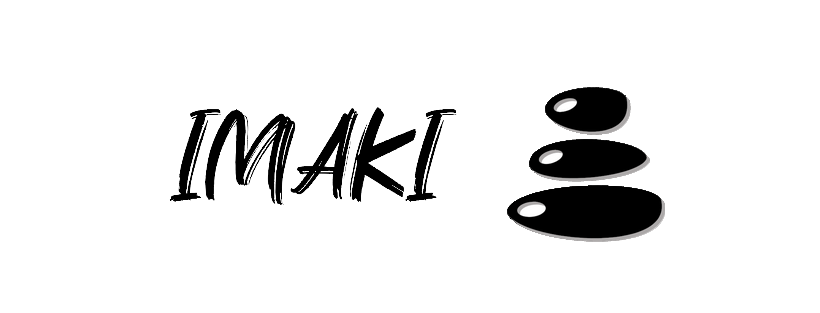
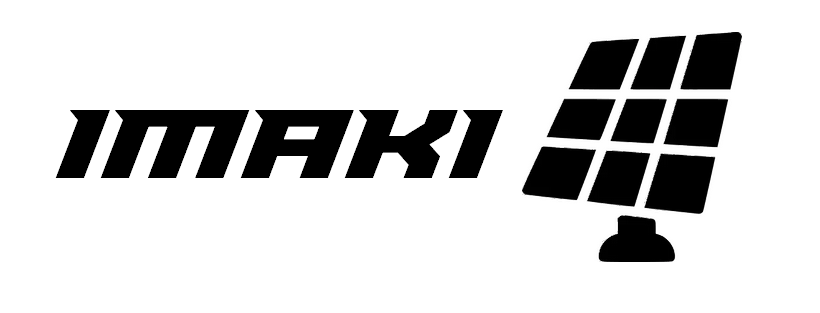
changement sytle icones

Changed region(s): [[0.6098, 0.0863, 0.9146, 0.8626], [0.061, 0.345, 0.6098, 0.6613]]

diff --git a/index.html b/index.html
@@ -12,8 +12,7 @@
 	<meta name="description" content="Agence de Marketing de Réseaux Sociaux" />
 	<meta name="keywords" content="marketing, réseaux sociaux, conseils, pubs, pub, publicité" />
 	<meta name="author" content="Firas" />
-
-  <!-- Facebook and Twitter integration -->
+	<!-- Facebook and Twitter integration -->
 	<meta property="og:title" content=""/>
 	<meta property="og:image" content=""/>
 	<meta property="og:url" content=""/>
@@ -25,7 +24,7 @@
 	<meta name="twitter:card" content="https://twitter.com/AgenceImaki/header_photo" />
 
 	<!-- Place favicon.ico and apple-touch-icon.png in the root directory -->
-	<link rel="shortcut icon" href="imaki_icon_white_transparent.ico">
+	<link rel="shortcut icon" href="icon.ico">
 
 	<link href='https://fonts.googleapis.com/css?family=Source+Sans+Pro:400,300,600,400italic,700' rel='stylesheet' type='text/css'>
 	
@@ -67,8 +66,8 @@
 		        <div id="navbar" class="navbar-collapse collapse">
 		          <ul class="nav navbar-nav navbar-right">
 		            <li class="active"><a href="#" data-nav-section="home"><span>Accueil</span></a></li>
-		            <li><a data-nav-section="about"><span>À propos</span></a></li>
 		            <li><a data-nav-section="services"><span>Services</span></a></li>
+		            <li><a data-nav-section="about"><span>À propos</span></a></li>
 		            <li><a data-nav-section="pricing"><span>Prendre rendez-vous</span></a></li>
 		            <!--<li><a data-nav-section="press"><span>Portfolio</span></a></li>-->
 		          </ul>
@@ -94,7 +93,7 @@
 						    </div>
 					    </div>
 					    <div class="col-md-4 col-md-push-1 col-sm-4 col-sm-push-1 iphone-image">
-					    	<div class="iphone to-animate-2"><img src="images/stocks/installing_pannel_3.jpg" alt="Free HTML5 Template by FREEHTML5.co"></div>
+					    	<div class="iphone to-animate-2"><img src="images/stocks/installing_pannel_3.jpg"></div>
 					    </div>
 
 		    		</div>
@@ -113,7 +112,7 @@
 						    </div>
 					    </div>
 					    <div class="col-md-4 col-md-pull-7 col-sm-4 col-sm-pull-7 iphone-image">
-					    	<div class="iphone to-animate-2"><img src="images/stocks/man_behind_laptop.jpg" alt="Free HTML5 Template by FREEHTML5.co"></div>
+					    	<div class="iphone to-animate-2"><img src="images/stocks/man_behind_laptop.jpg"></div>
 					    </div>
 
 		    		</div>

diff --git a/css/style.css b/css/style.css
@@ -1,9 +1,9 @@
 @font-face {
-  font-family: 'icomoon';
-  src: url("../fonts/icomoon/icomoon.eot?srf3rx");
-  src: url("../fonts/icomoon/icomoon.eot?srf3rx#iefix") format("embedded-opentype"), url("../fonts/icomoon/icomoon.ttf?srf3rx") format("truetype"), url("../fonts/icomoon/icomoon.woff?srf3rx") format("woff"), url("../fonts/icomoon/icomoon.svg?srf3rx#icomoon") format("svg");
-  font-weight: normal;
-  font-style: normal;
+
+  font-family: "paladins";
+
+  src: url("/fonts/paladins.ttf");
+
 }
 /* =======================================================
 *
@@ -11,6 +11,13 @@
 *	Edit this section
 *
 * ======================================================= */
+
+.paladins {
+
+  font-family: "paladins";
+
+}
+
 body {
   font-family: "Source Sans Pro", Arial, sans-serif;
   font-weight: 400;
